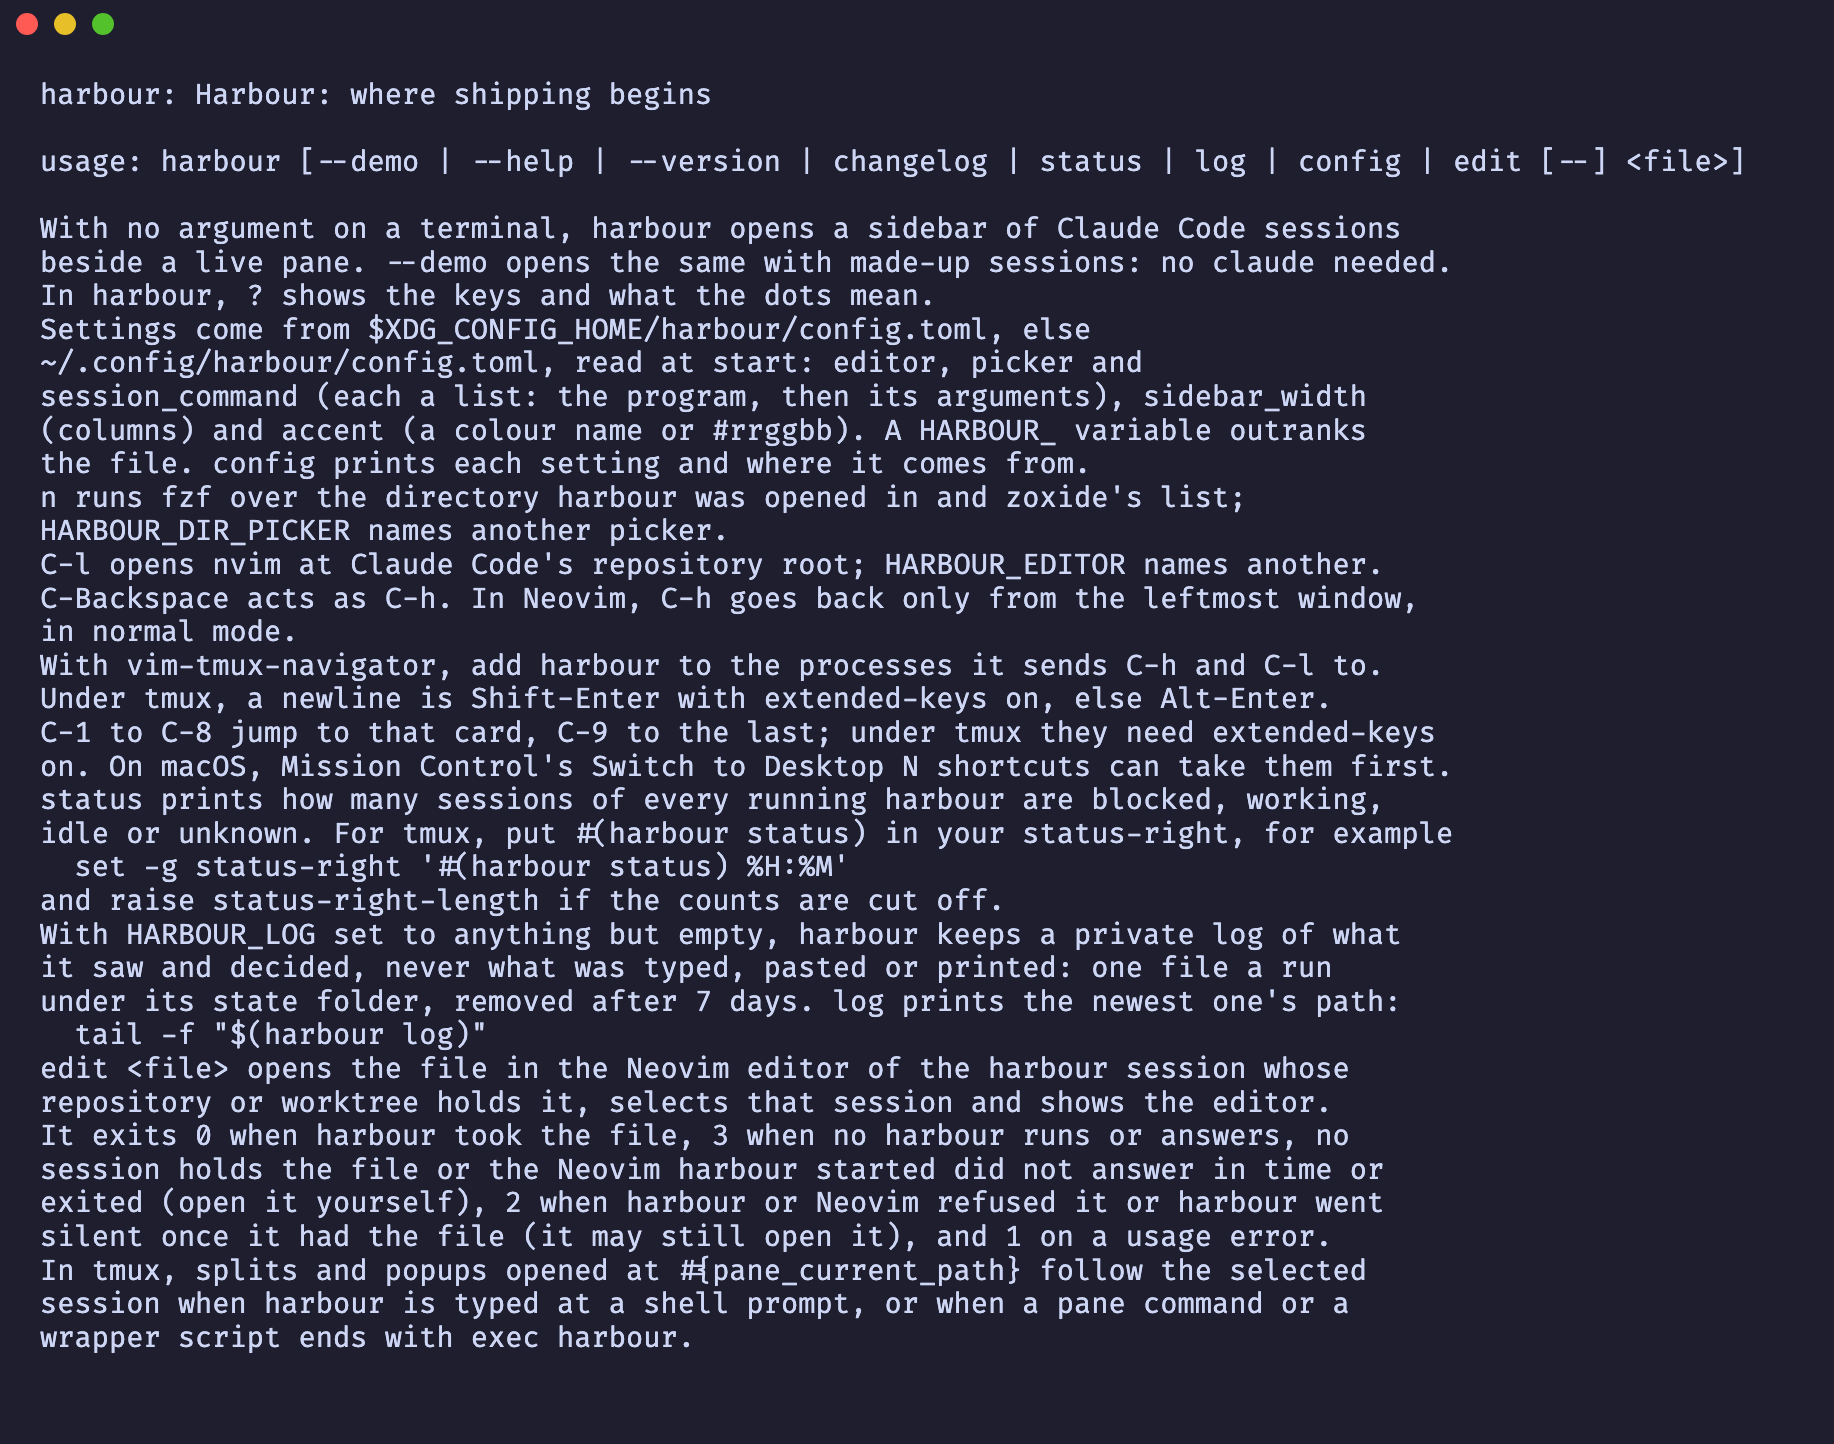
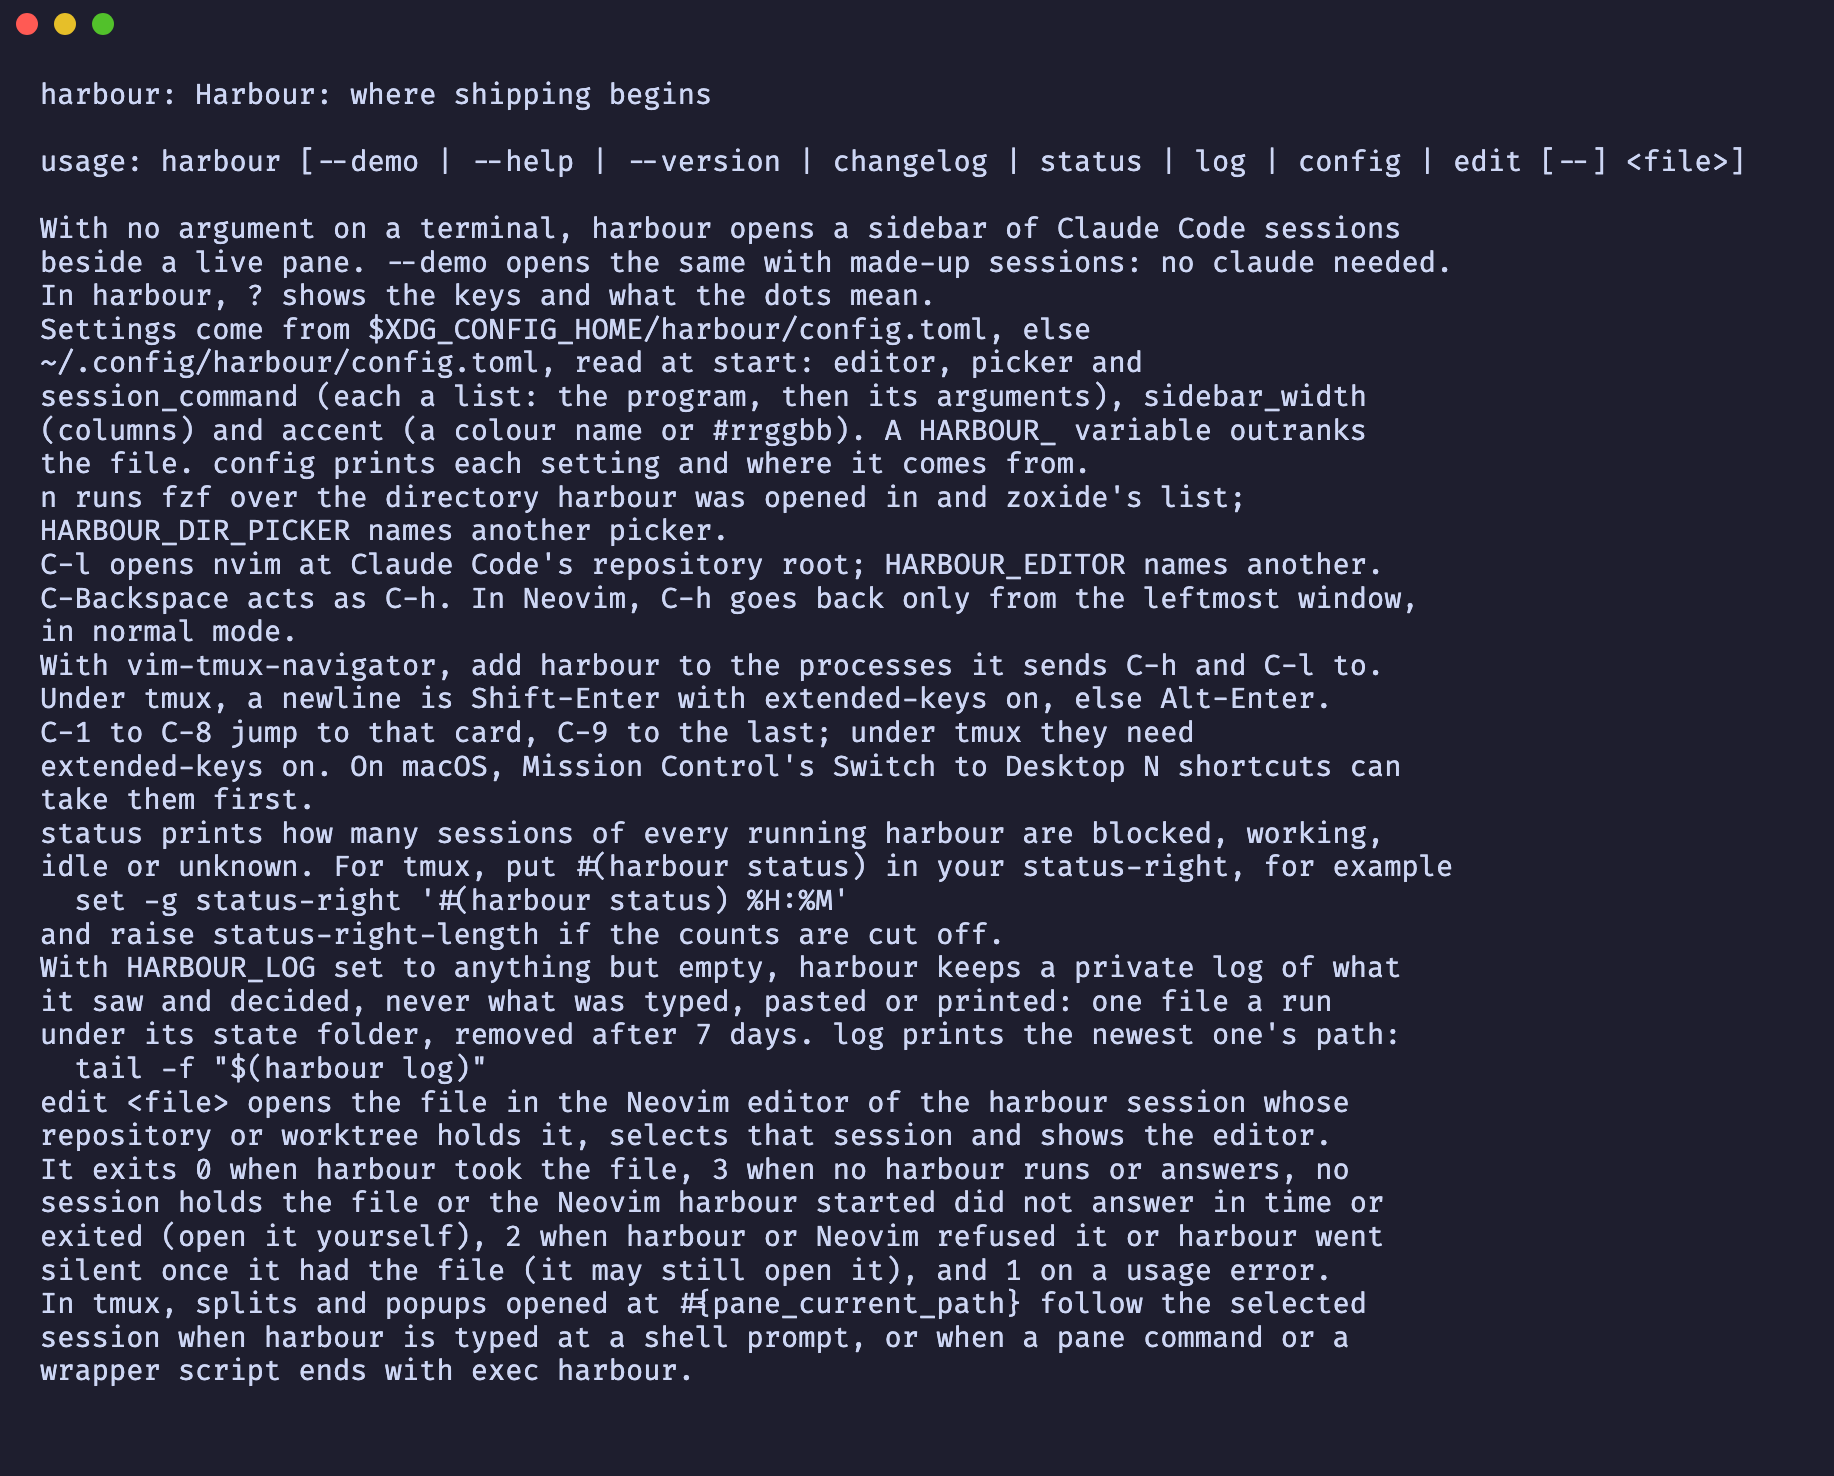
A refused jump leaves the sidebar focused; Ctrl+Shift+digit jumps too
- A jump to a stopped card that cannot resume ends with the sidebar focused, also from a pane.
- A jump in the narrow layout clears the message drawn over the pane, as any key does.
- Ctrl with Shift on a digit jumps, for layouts where digits need Shift.
- The no-card Ctrl-9 test asserts the screen stays the same.
- harbour --help keeps extended-keys on one line.

diff --git a/tests/app/jumping.rs b/tests/app/jumping.rs
@@ -97,11 +97,11 @@ fn ctrl_nine_with_no_card_does_nothing() {
     let scratch = tempfile::tempdir().unwrap();
     let mut screen = Screen::new(lined_agent(scratch.path()));
 
-    ctrl(&mut screen, '9');
-    screen.press('n');
+    let before = screen.draw();
 
-    let shown = screen.wait_for("acme agent 1");
-    assert!(shown.contains("acme agent 1"), "{shown}");
+    ctrl(&mut screen, '9');
+
+    assert_eq!(screen.draw(), before);
 }
 
 #[test]
@@ -243,6 +243,105 @@ fn the_keys_a_terminal_without_extended_keys_sends_for_ctrl_one_to_ctrl_nine_rea
     );
 }
 
+#[test]
+fn ctrl_shift_two_jumps_as_ctrl_two_does() {
+    let scratch = tempfile::tempdir().unwrap();
+    let mut screen = three_sessions(scratch.path());
+
+    screen.key(
+        KeyCode::Char('2'),
+        KeyModifiers::CONTROL | KeyModifiers::SHIFT,
+    );
+    screen.type_text("hi\r");
+
+    let shown = screen.wait_for("acme agent 2 got:");
+    assert!(shown.contains("acme agent 2 got: hi"), "{shown}");
+}
+
+#[test]
+fn a_jump_from_a_pane_to_a_card_whose_directory_is_gone_leaves_the_sidebar_focused() {
+    let (scratch, mut screen) = live_beside_stopped(120);
+    fs::remove_dir_all(scratch.checkout()).unwrap();
+
+    ctrl(&mut screen, '1');
+
+    let shown = screen.wait_for("Not a directory");
+    assert_sidebar_focused(&mut screen, &shown);
+}
+
+#[test]
+fn a_jump_from_a_pane_to_a_card_whose_directory_is_gone_leaves_the_sidebar_focused_when_narrow() {
+    let (scratch, mut screen) = live_beside_stopped(59);
+    fs::remove_dir_all(scratch.checkout()).unwrap();
+
+    ctrl(&mut screen, '1');
+
+    let shown = screen.wait_for("Not a directory");
+    assert_sidebar_focused(&mut screen, &shown);
+}
+
+#[test]
+fn a_jump_from_a_pane_to_a_card_open_elsewhere_leaves_the_sidebar_focused() {
+    let (scratch, mut screen) = live_beside_stopped(120);
+    hold(&scratch);
+
+    ctrl(&mut screen, '1');
+
+    let shown = screen.wait_for("is open elsewhere");
+    assert_sidebar_focused(&mut screen, &shown);
+}
+
+#[test]
+fn a_jump_from_a_pane_to_a_card_open_elsewhere_leaves_the_sidebar_focused_when_narrow() {
+    let (scratch, mut screen) = live_beside_stopped(59);
+    hold(&scratch);
+
+    ctrl(&mut screen, '1');
+
+    let shown = screen.wait_for("is open elsewhere");
+    assert_sidebar_focused(&mut screen, &shown);
+}
+
+#[test]
+fn a_jump_from_a_pane_to_a_card_whose_transcript_is_gone_leaves_the_sidebar_focused() {
+    let (scratch, mut screen) = live_beside_stopped(120);
+    fs::remove_file(scratch.transcript_file(ID)).unwrap();
+
+    ctrl(&mut screen, '1');
+
+    let shown = screen.wait_for("This conversation is gone");
+    assert_sidebar_focused(&mut screen, &shown);
+}
+
+#[test]
+fn a_jump_from_a_pane_to_a_card_whose_transcript_is_gone_leaves_the_sidebar_focused_when_narrow() {
+    let (scratch, mut screen) = live_beside_stopped(59);
+    fs::remove_file(scratch.transcript_file(ID)).unwrap();
+
+    ctrl(&mut screen, '1');
+
+    let shown = screen.wait_for("This conversation is gone");
+    assert_sidebar_focused(&mut screen, &shown);
+}
+
+#[test]
+fn a_jump_in_the_narrow_layout_clears_the_message_drawn_over_the_pane() {
+    let scratch = tempfile::tempdir().unwrap();
+    let editor = Program::new("acme-edit", script("exit 3"));
+    let mut screen = Screen::of(App::new(lined_agent(scratch.path())).with_editor(editor));
+    screen.resize(59, 20);
+    screen.press('n');
+    screen.press('n');
+    screen.key(KeyCode::Enter, KeyModifiers::NONE);
+    screen.key(KeyCode::Char('l'), KeyModifiers::CONTROL);
+    screen.wait_for("acme-edit exited 3");
+
+    ctrl(&mut screen, '1');
+
+    let shown = screen.wait_for("acme agent 1");
+    assert!(!shown.contains("acme-edit exited"), "{shown}");
+}
+
 fn ctrl(screen: &mut Screen, digit: char) {
     screen.key(KeyCode::Char(digit), KeyModifiers::CONTROL);
 }
@@ -287,4 +386,52 @@ fn raw_reader(length: usize) -> Vec<String> {
          dd bs=1 count={length} 2>/dev/null | od -An -tx1 | tr -s ' \\n' '  ' | \
          sed 's/^/acme agent read:/' >&2; exec sleep 600"
     ))
+}
+
+const LIVE: &str = "acme agent live";
+
+fn live_beside_stopped(width: u16) -> (Scratch, Screen) {
+    let scratch = Scratch::new();
+    scratch.remember(ID, "The first one", 0);
+    scratch.remember(OTHER_ID, TITLE, 1);
+    scratch.transcript(ID, r#"{"type":"user","message":{}}"#);
+    scratch.transcript(OTHER_ID, r#"{"type":"user","message":{}}"#);
+    let mut screen = scratch.watching(script(&format!(
+        "[ \"$1\" ] || echo '{LIVE}'; exec sleep 600"
+    )));
+    screen.resize(width, 20);
+    screen.wait_for(TITLE);
+    screen.press('n');
+    screen.key(KeyCode::Enter, KeyModifiers::NONE);
+    screen.wait_for(LIVE);
+    (scratch, screen)
+}
+
+fn hold(scratch: &Scratch) {
+    fs::write(
+        scratch
+            .sessions()
+            .join(format!("{}.json", std::process::id())),
+        format!(r#"{{"status":"idle","sessionId":"{ID}"}}"#),
+    )
+    .unwrap();
+}
+
+fn assert_sidebar_focused(screen: &mut Screen, shown: &str) {
+    assert!(
+        shown.lines().next().unwrap().starts_with("┏ sessions"),
+        "{shown}"
+    );
+    let before = selected_line(shown);
+    screen.press('j');
+    let moved = screen.draw();
+    assert_ne!(selected_line(&moved), before, "{moved}");
+}
+
+fn selected_line(shown: &str) -> String {
+    shown
+        .lines()
+        .find(|line| line.contains('▌'))
+        .unwrap_or_default()
+        .to_string()
 }

diff --git a/tests/cli.rs b/tests/cli.rs
@@ -362,8 +362,9 @@ C-Backspace acts as C-h. In Neovim, C-h goes back only from the leftmost window,
 in normal mode.
 With vim-tmux-navigator, add harbour to the processes it sends C-h and C-l to.
 Under tmux, a newline is Shift-Enter with extended-keys on, else Alt-Enter.
-C-1 to C-8 jump to that card, C-9 to the last; under tmux they need extended-keys
-on. On macOS, Mission Control's Switch to Desktop N shortcuts can take them first.
+C-1 to C-8 jump to that card, C-9 to the last; under tmux they need
+extended-keys on. On macOS, Mission Control's Switch to Desktop N shortcuts can
+take them first.
 status prints how many sessions of every running harbour are blocked, working,
 idle or unknown. For tmux, put #(harbour status) in your status-right, for example
   set -g status-right '#(harbour status) %H:%M'

diff --git a/src/main.rs b/src/main.rs
@@ -24,8 +24,9 @@ C-Backspace acts as C-h. In Neovim, C-h goes back only from the leftmost window,
 in normal mode.
 With vim-tmux-navigator, add harbour to the processes it sends C-h and C-l to.
 Under tmux, a newline is Shift-Enter with extended-keys on, else Alt-Enter.
-C-1 to C-8 jump to that card, C-9 to the last; under tmux they need extended-keys
-on. On macOS, Mission Control's Switch to Desktop N shortcuts can take them first.
+C-1 to C-8 jump to that card, C-9 to the last; under tmux they need
+extended-keys on. On macOS, Mission Control's Switch to Desktop N shortcuts can
+take them first.
 status prints how many sessions of every running harbour are blocked, working,
 idle or unknown. For tmux, put #(harbour status) in your status-right, for example
   set -g status-right '#(harbour status) %H:%M'

diff --git a/src/app/key.rs b/src/app/key.rs
@@ -24,11 +24,14 @@ impl App {
             self.log_input(Input::Picker, bytes.len());
             return;
         }
-        if self.dismiss(is_yes(key)) || self.jump_by_key(key) {
+        if self.dismiss(is_yes(key)) {
             return;
         }
         if self.sidebar.is_empty() && !self.sessions.is_empty() {
             self.failed = None;
+        }
+        if self.jump_by_key(key) {
+            return;
         }
         if self.pane_focused && is_ctrl(acted, 'h') {
             match self.sessions.get_mut(self.selected) {
@@ -95,6 +98,8 @@ impl App {
     pub(super) fn focus_or_resume(&mut self) {
         if !self.resume() {
             self.pane_focused = !self.sessions.is_empty();
+        } else if self.failed.is_some() {
+            self.pane_focused = false;
         }
     }
 

diff --git a/src/app/jump.rs b/src/app/jump.rs
@@ -26,7 +26,9 @@ impl App {
 
 fn position(key: KeyEvent) -> Option<usize> {
     match key.code {
-        KeyCode::Char(c @ '1'..='9') if key.modifiers == KeyModifiers::CONTROL => {
+        KeyCode::Char(c @ '1'..='9')
+            if key.modifiers - KeyModifiers::SHIFT == KeyModifiers::CONTROL =>
+        {
             c.to_digit(10).and_then(|digit| usize::try_from(digit).ok())
         }
         _ => None,

diff --git a/plans/phase-22-jump-by-number.md b/plans/phase-22-jump-by-number.md
@@ -59,7 +59,8 @@ it. Select, focus and resume are one function, `App::jump`, so the pick of #39 c
 | The pane already focused on another session | the card at N is selected and its pane focused; the session that had the pane receives nothing |
 | An editor focused, one that asked for extended keys | the jump happens; the editor receives nothing |
 | A stopped card that resumes | the card resumes as Enter resumes it, its pane focused |
-| A stopped card that cannot resume | the card is selected and says why (`directory gone`, `open elsewhere`), as Enter would; the sidebar keeps focus |
+| A stopped card that cannot resume | the card is selected and says why (`directory gone`, `open elsewhere`), as Enter would; the sidebar has focus, also when a pane had it (in the narrow layout the sidebar is shown) |
+| A stopped card whose transcript is gone | the card is removed and `This conversation is gone` shows over whatever is selected then; the sidebar has focus |
 | An exited card | selected and its pane focused, as Enter does |
 | The selected card was removed between two keys (`x`, or its session exited and was settled) | the position counts the cards shown at that key, so N names whatever card is at N now |
 | A question shown | the key answers it as any key but `y` does (no), and no jump |
@@ -67,10 +68,11 @@ it. Select, focus and resume are one function, `App::jump`, so the pick of #39 c
 | The picker shown | the picker gets the key, as today, and no jump |
 | A session started but not yet in the sidebar | only through the picker, which is still shown: the picker gets the key |
 | Narrow layout (under 60 columns), sidebar shown | the card is selected and its pane shown alone, as Enter shows it |
-| Narrow layout, pane shown | the card at N is selected and its pane shown alone |
+| Narrow layout, pane shown | the card at N is selected and its pane shown alone; a message drawn over the old pane is cleared, as any key clears it |
 | Extended keys unavailable (`extended-keys off`, or a terminal without them) | nothing changes from today: the session gets the legacy bytes (`1`, `\0`, Esc, ..., `9`) and the sidebar treats them as it did |
 | macOS "Switch to Desktop N" on | macOS takes the key, harbour never sees it (`harbour --help` says so) |
 | The log on | the key is logged as `key name="C-N"` |
+| Ctrl+Shift+N (layouts where digits need Shift) | the same as Ctrl-N |
 
 Zoom is not built yet, so it has no row.
 
@@ -95,6 +97,10 @@ Zoom is not built yet, so it has no row.
   the rest.` off. For the same reason C-h now reads `from an editor` instead of `from the
   editor`, one column shorter, so it stops wrapping at 59 columns and frees the row the new key
   takes. The narrow layout on 20 rows has no spare row left; the wide one keeps four.
+- A refused jump ends with the sidebar focused even when it came from a pane, so keys typed
+  next never act on the sidebar behind a highlighted pane. Enter shares that path.
+- Ctrl with or without Shift on a digit jumps: where the digits need Shift, Ctrl+Shift+N is
+  what the terminal sends for Ctrl-N.
 
 ## Tasks
 
